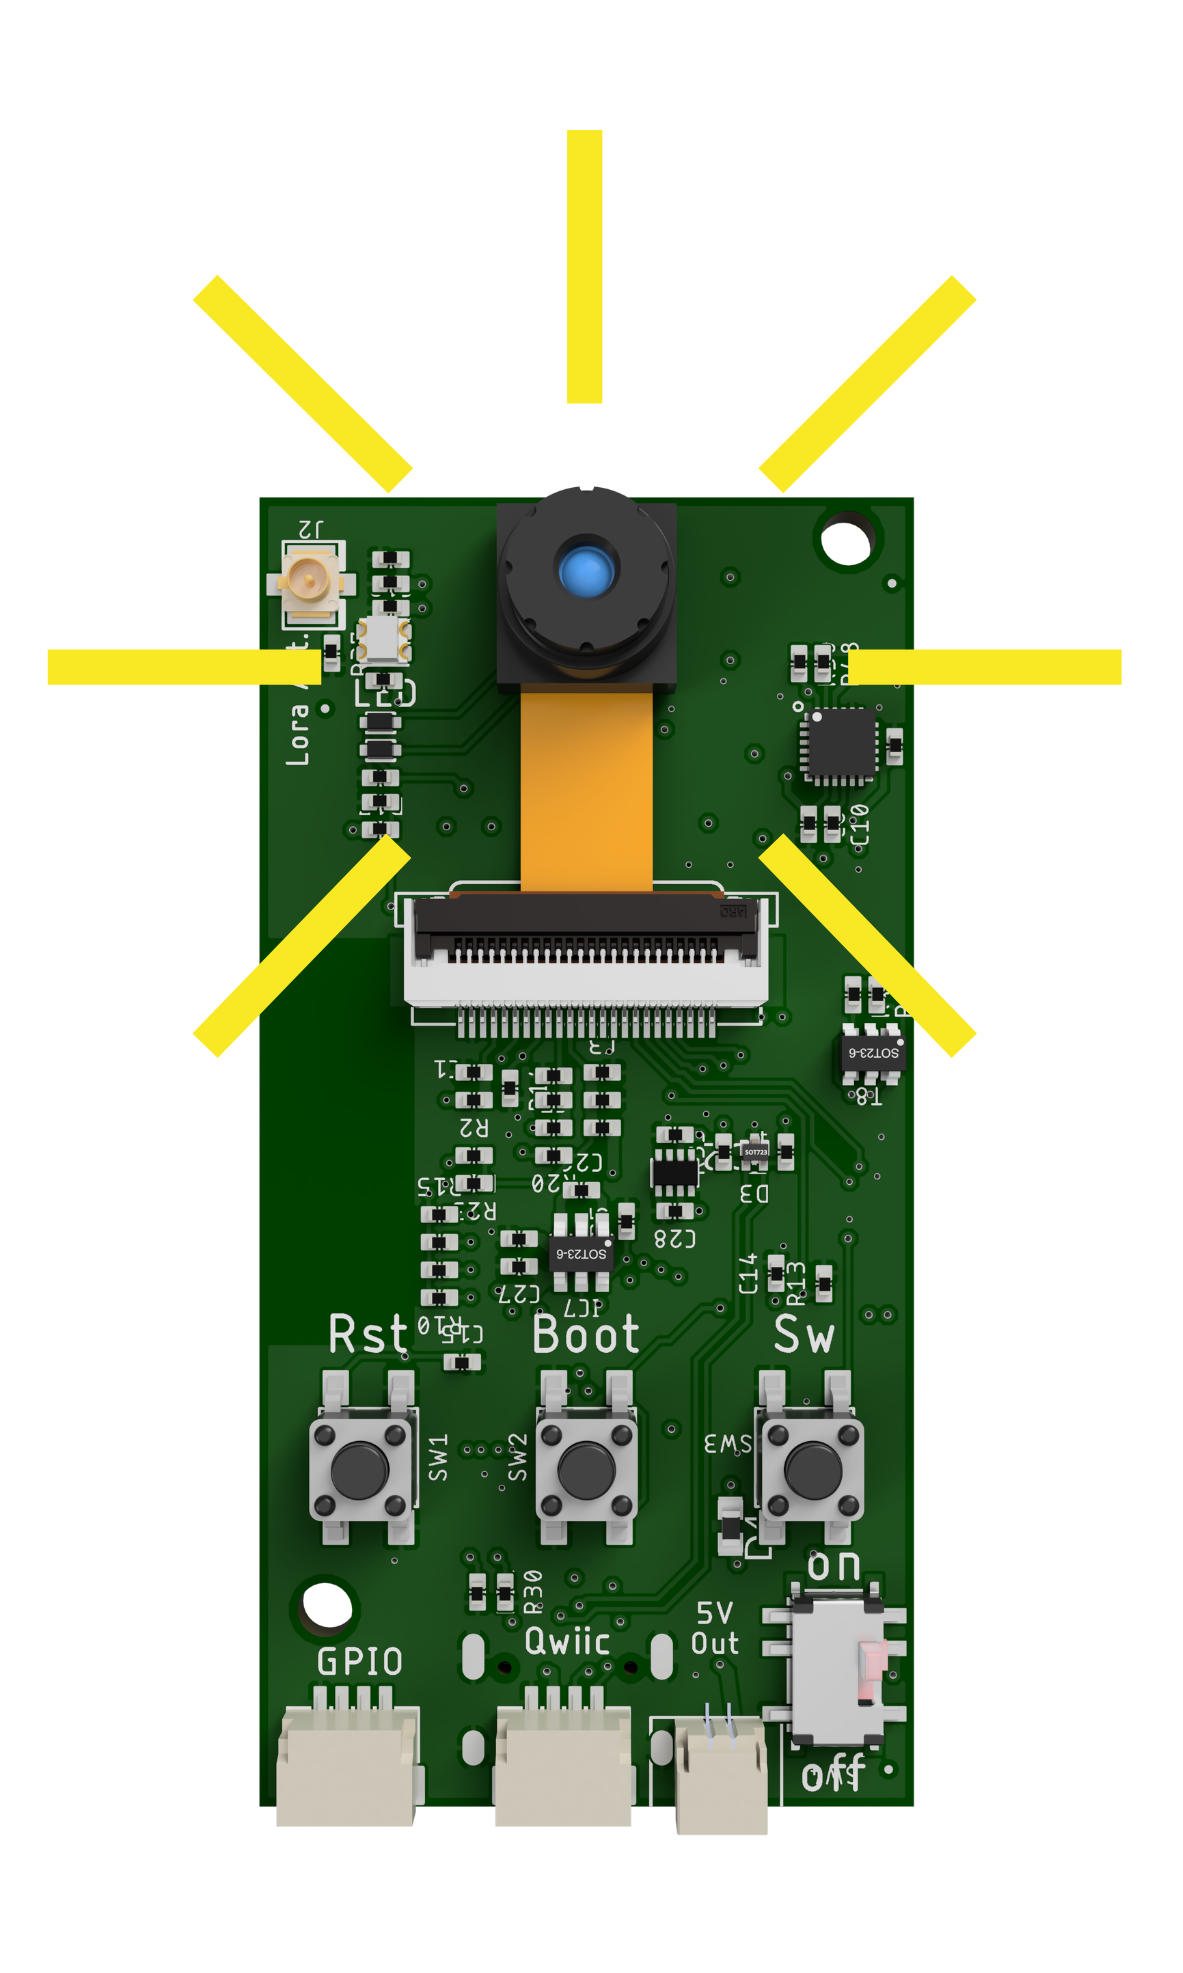
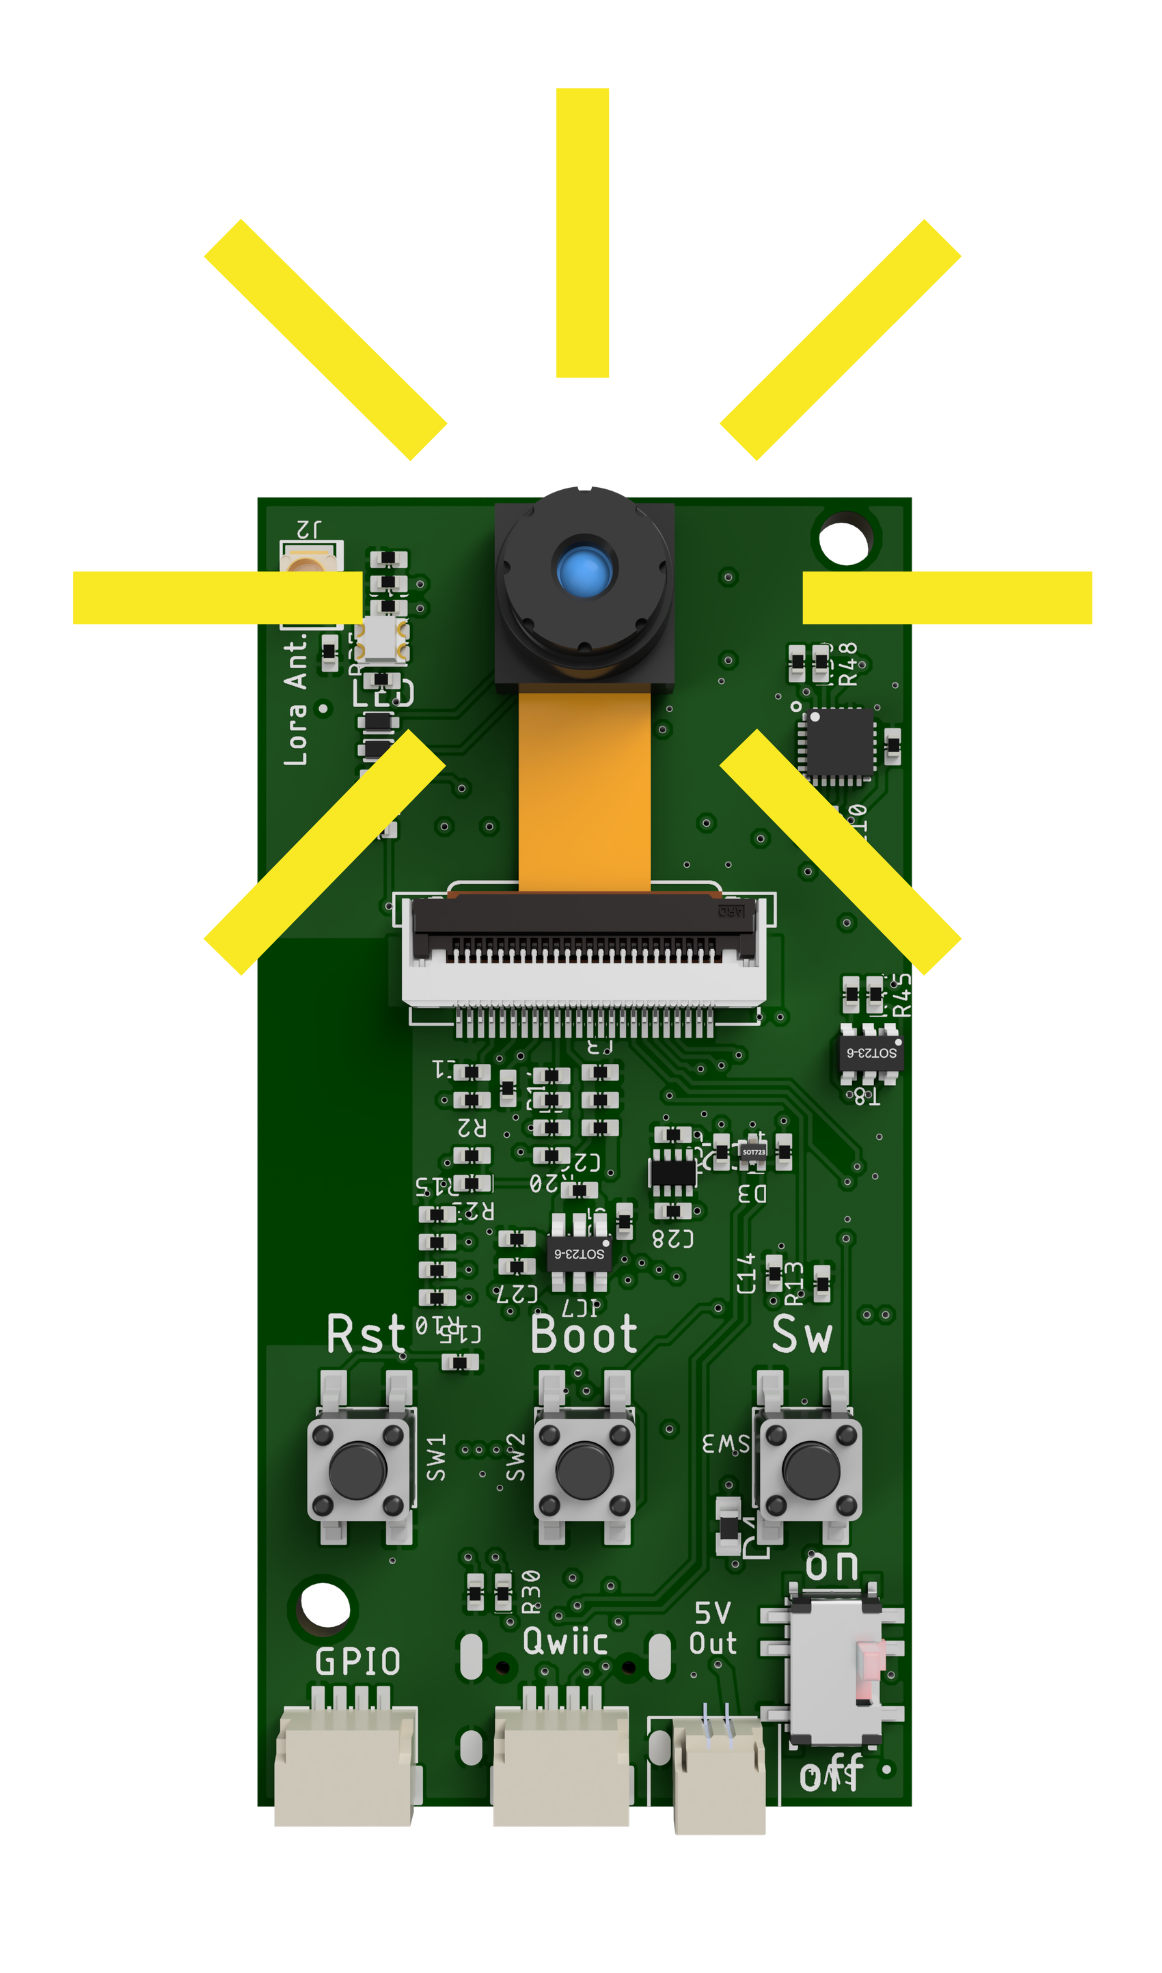
feat: update animations

diff --git a/_includes/_pages/products-eye.html b/_includes/_pages/products-eye.html
@@ -98,8 +98,8 @@
               <div class="feature-card">
                 <img
                   loading="lazy"
-                  src="/images/products/edus2/senseBox_MCU-S2_Lichtsensor.gif"
-                  alt="Lichtsensor"
+                  src="/images/products/eye/camera.gif"
+                  alt="Camera"
                 />
                 <h3>{{content.eye-category-camera-title}}</h3>
                 <p>
@@ -111,8 +111,8 @@
               <div class="feature-card">
                 <img
                   loading="lazy"
-                  src="/images/products/edus2/senseBox_MCU-S2_Beschleunigungssensor.gif"
-                  alt="Beschleunigungssensor"
+                  src="/images/products/eye/accelerometer.gif"
+                  alt="Accelerometer"
                 />
                 <h3>{{content.eye-category-accelerometer-title}}</h3>
                 <p>
@@ -130,8 +130,8 @@
               <div class="feature-card">
                 <img
                   loading="lazy"
-                  src="/images/products/edus2/sdmodule.gif"
-                  alt="SD Module"
+                  src="/images/products/eye/WiFi.gif"
+                  alt="WiFi Module"
                 />
                 <h3>{{content.eye-category-wifi-title}}</h3>
                 <p>{{content.eye-category-wifi-desc}}</p>
@@ -141,8 +141,8 @@
               <div class="feature-card">
                 <img
                   loading="lazy"
-                  src="/images/products/edus2/mcus2-wifi.gif"
-                  alt="WiFi Module"
+                  src="/images/products/eye/BLE.gif"
+                  alt="BLE Module"
                 />
                 <h3>{{content.eye-category-ble-title}}</h3>
                 <p>{{content.eye-category-ble-desc}}</p>
@@ -152,8 +152,8 @@
               <div class="feature-card">
                 <img
                   loading="lazy"
-                  src="/images/products/edus2/RGB-LED.gif"
-                  alt="RGB LED"
+                  src="/images/products/eye/LoRa.gif"
+                  alt="LoRa Module"
                 />
                 <h3>{{content.eye-category-lora-title}}</h3>
                 <p>{{content.eye-category-lora-desc}}</p>
@@ -168,8 +168,8 @@
               <div class="feature-card">
                 <img
                   loading="lazy"
-                  src="/images/products/edus2/oleddisplay.gif"
-                  alt="OLED Display"
+                  src="/images/products/eye/USB-C.gif"
+                  alt="USB-C Port"
                 />
                 <h3>{{content.eye-category-usb-title}}</h3>
                 <p>{{content.eye-category-usb-desc}}</p>
@@ -177,10 +177,11 @@
             </div>
             <div class="col-lg-4 col-md-6 mb-4 d-flex">
               <div class="feature-card">
+                <!-- TODO: fix animation -->
                 <img
                   loading="lazy"
-                  src="/images/products/edus2/mcus2-ble.gif"
-                  alt="Bluetooth Module"
+                  src="/images/products/eye/qwiic.gif"
+                  alt="Qwiic Port"
                 />
                 <h3>{{content.eye-category-qwiic-title}}</h3>
                 <p>{{content.eye-category-qwiic-desc}}</p>
@@ -190,8 +191,8 @@
               <div class="feature-card">
                 <img
                   loading="lazy"
-                  src="/images/products/edus2/mcus2-ble.gif"
-                  alt="Bluetooth Module"
+                  src="/images/products/eye/battery.gif"
+                  alt="Battery Port"
                 />
                 <h3>{{content.eye-category-battery-title}}</h3>
                 <p>{{content.eye-category-battery-desc}}</p>
@@ -206,8 +207,8 @@
               <div class="feature-card">
                 <img
                   loading="lazy"
-                  src="/images/products/edus2/oleddisplay.gif"
-                  alt="OLED Display"
+                  src="/images/products/eye/RGB-LED.gif"
+                  alt="RGB LED"
                 />
                 <h3>{{content.eye-category-rgb-led-title}}</h3>
                 <p>{{content.eye-category-rgb-led-desc}}</p>
@@ -217,8 +218,8 @@
               <div class="feature-card">
                 <img
                   loading="lazy"
-                  src="/images/products/edus2/mcus2-ble.gif"
-                  alt="Bluetooth Module"
+                  src="/images/products/eye/sd-card.gif"
+                  alt="SD Card"
                 />
                 <h3>{{content.eye-category-sd-title}}</h3>
                 <p>{{content.eye-category-sd-desc}}</p>
@@ -228,8 +229,8 @@
               <div class="feature-card">
                 <img
                   loading="lazy"
-                  src="/images/products/edus2/mcus2-ble.gif"
-                  alt="Bluetooth Module"
+                  src="/images/products/eye/button.gif"
+                  alt="Button"
                 />
                 <h3>{{content.eye-category-button-title}}</h3>
                 <p>{{content.eye-category-button-desc}}</p>
